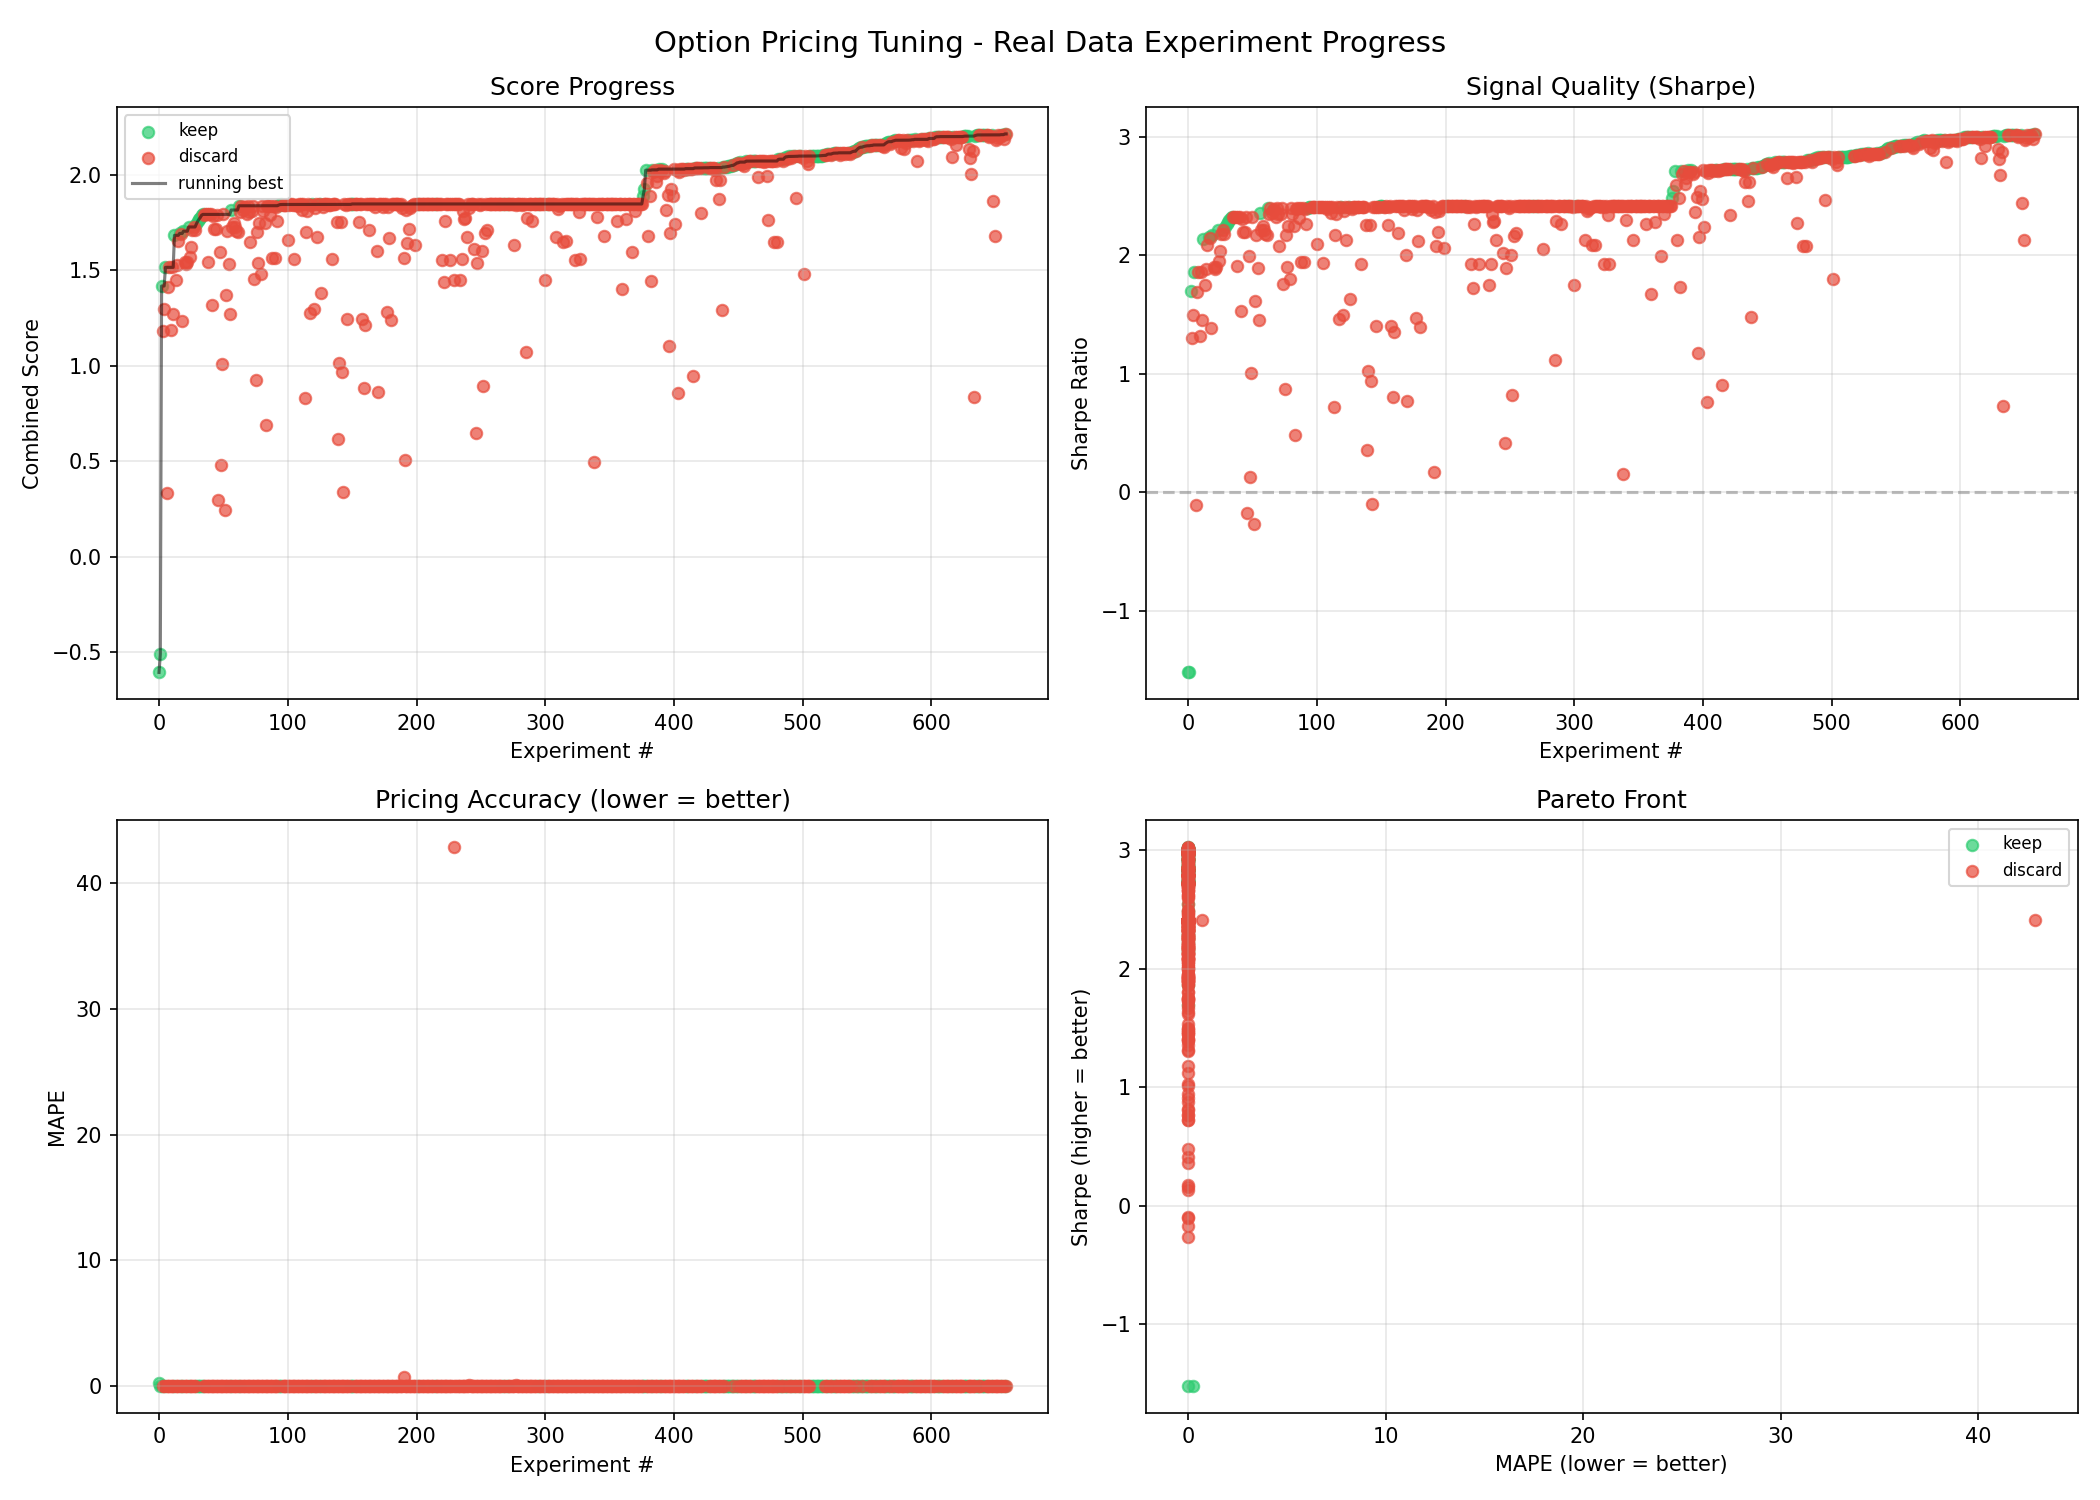
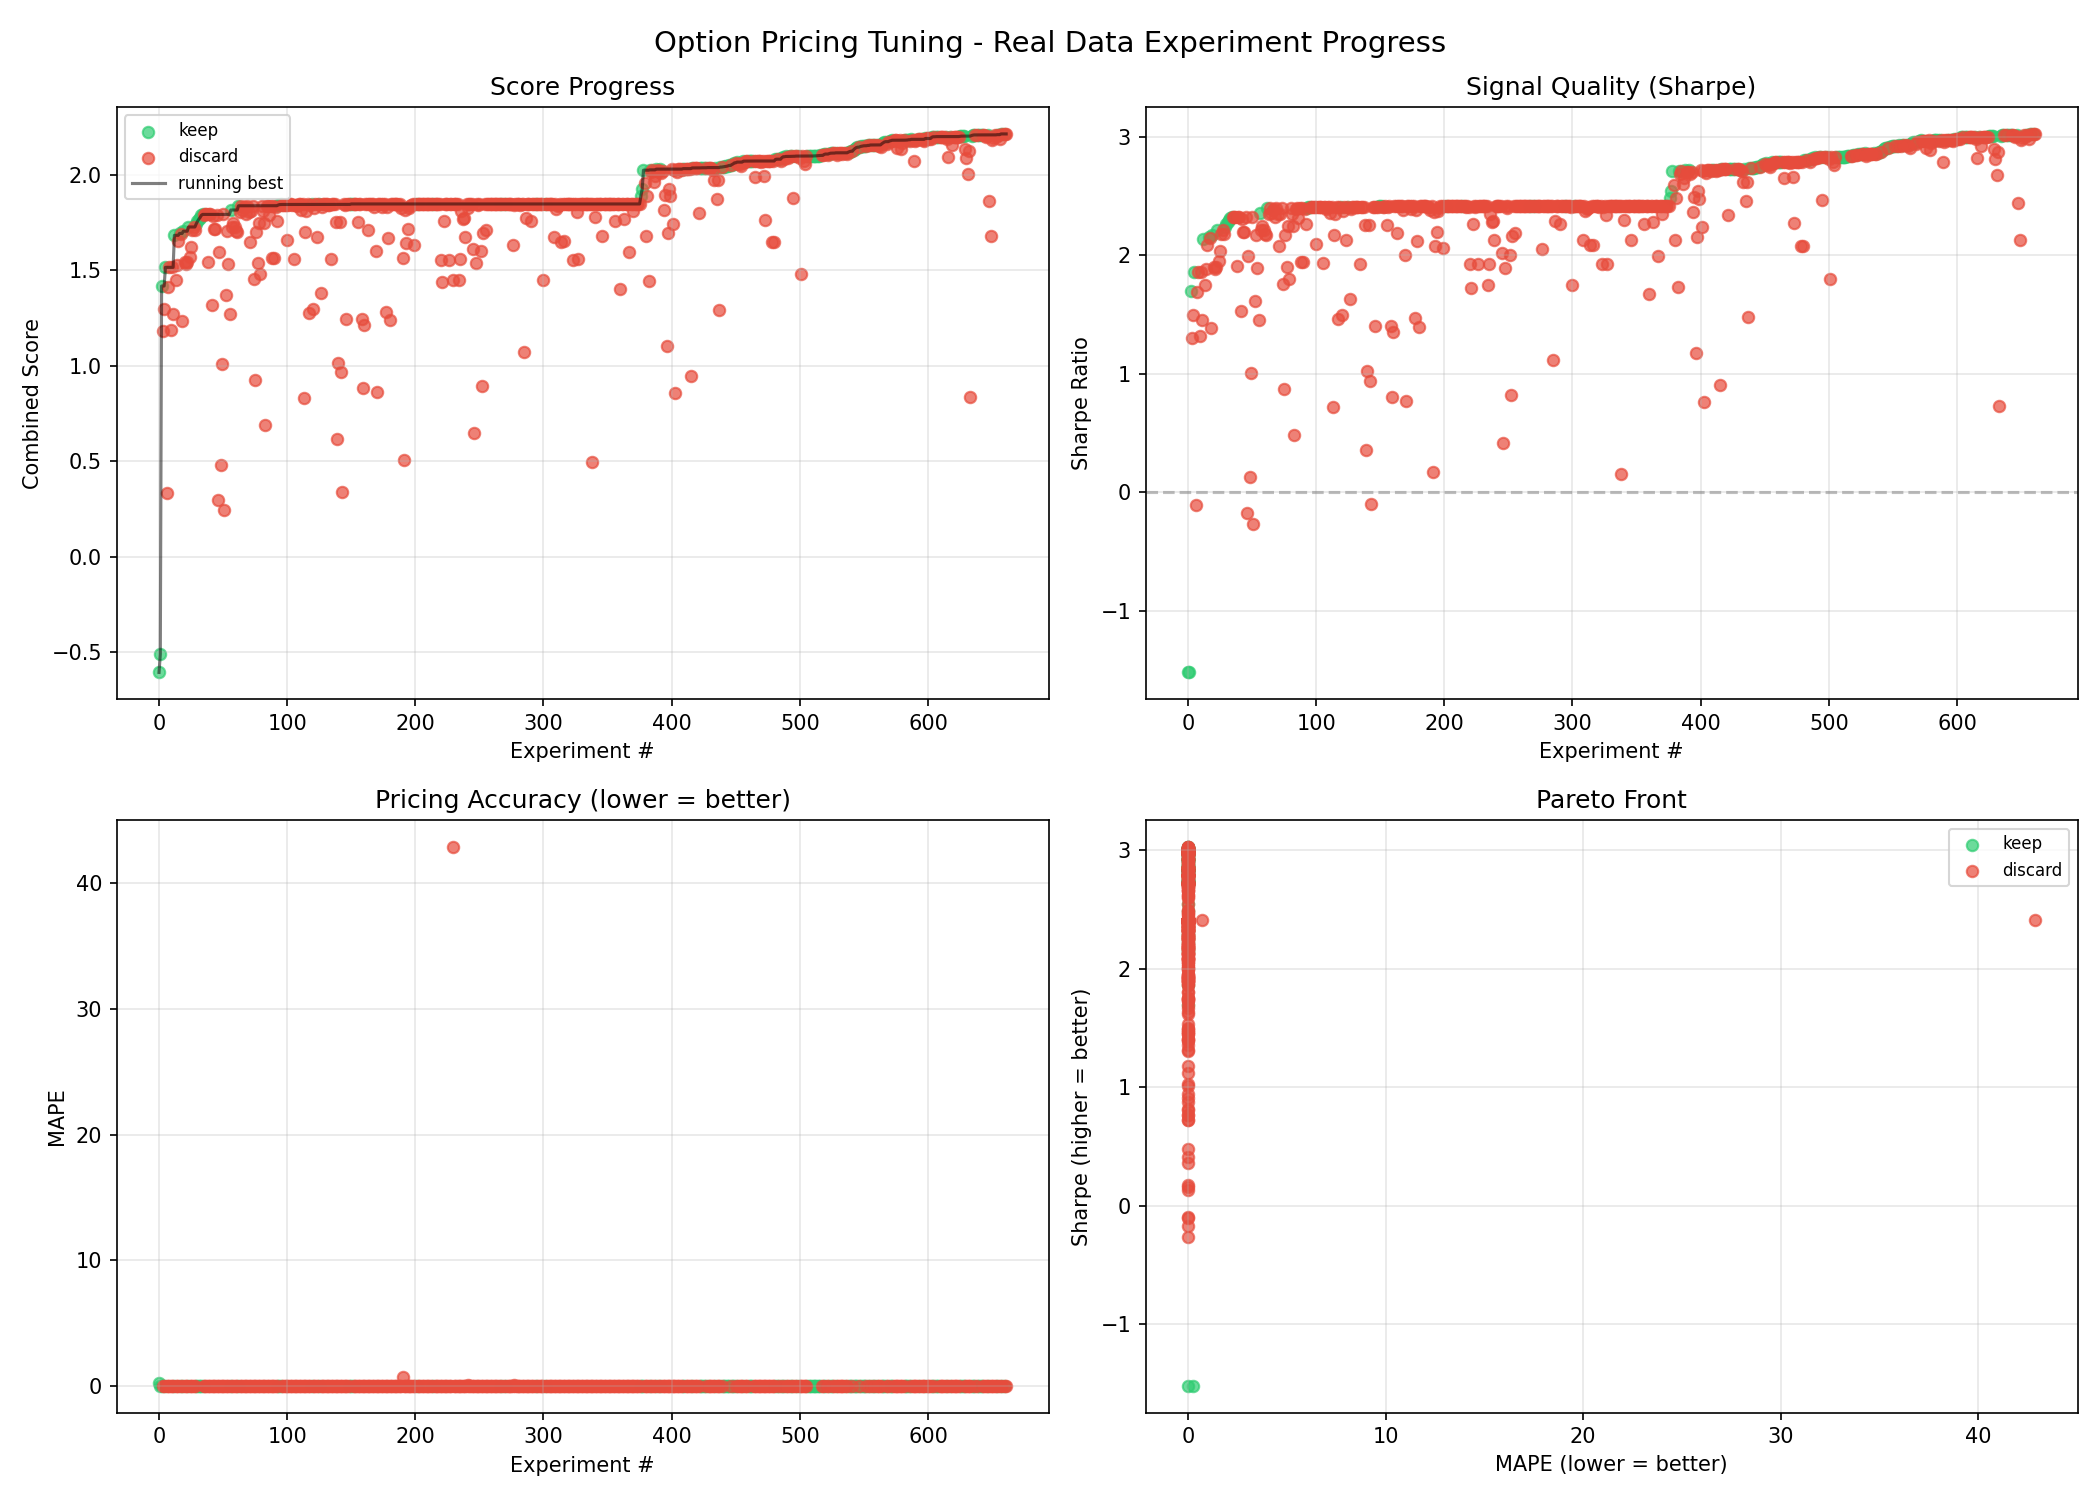
log exp662

diff --git a/README.md b/README.md
@@ -14,7 +14,7 @@ signals using **real stock market data** from Yahoo Finance.
 | MAPE | 0.002003 |
 | Win Rate | 86.2% |
 | Trades | 29 |
-| Experiments | 659 (142 kept) |
+| Experiments | 662 (143 kept) |
 
 ## How It Works
 
